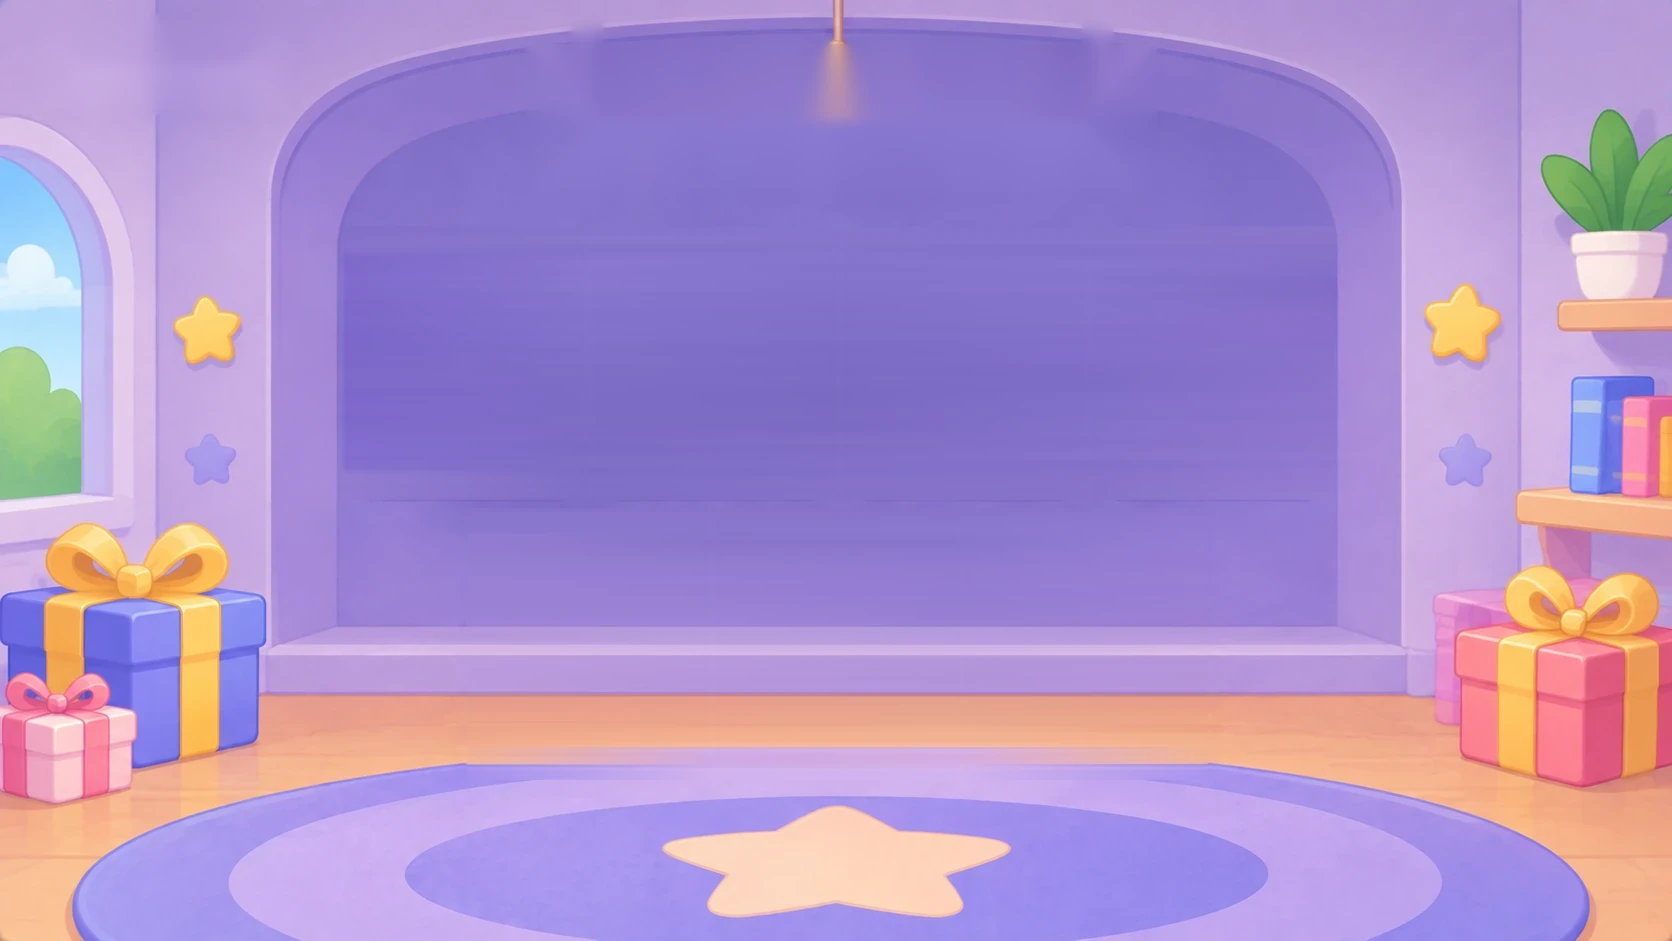
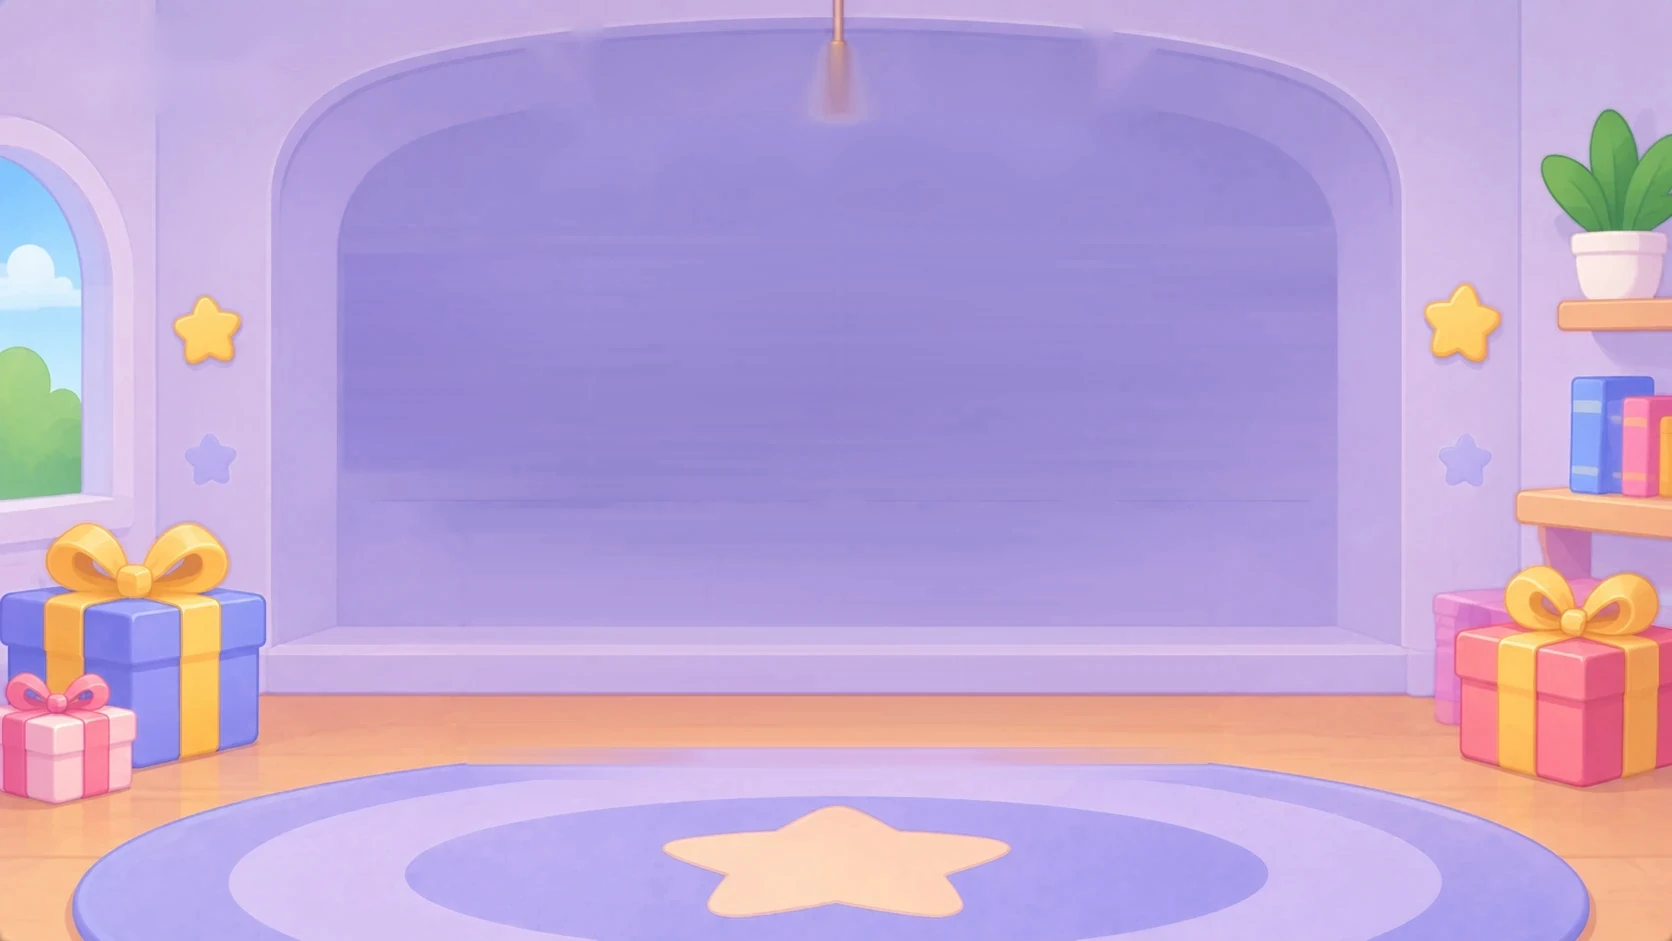
Bóc thẻ: tông tím nhạt hơn (nền phòng, thẻ, dây, nền điện thoại)
Claude-Session: https://claude.ai/code/session_01Xqfit1TE88fdJNq9wU4RBg

diff --git a/frontend/src/index.css b/frontend/src/index.css
@@ -1155,10 +1155,10 @@ html[data-arena-enter] main .page > *:nth-child(n+5) { animation-delay: 280ms; }
 .room-pill-btn:hover { transform: translateY(-0.15cqw); background: #fff; }
 
 /* ===== Bóc thẻ: sân khấu xanh, biển treo, 7 thẻ úp dấu "?" ===== */
-.gs-stage { position: relative; display: flex; flex-direction: column; align-items: center; gap: 14px; padding: 14px 12px 22px; background: linear-gradient(#B9A6F0, #8F78DE 80%, #F2B88E 80%); container-type: inline-size; }
+.gs-stage { position: relative; display: flex; flex-direction: column; align-items: center; gap: 14px; padding: 14px 12px 22px; background: linear-gradient(#CDBFF6, #A892E8 80%, #F4C3A0 80%); container-type: inline-size; }
 .gs-back { align-self: flex-start; display: inline-flex; align-items: center; gap: 6px; min-height: 44px; padding: 0 20px 0 14px; border: 2px solid #C58A4C; border-radius: 9999px; background: linear-gradient(#FCE2B8, #EDB878); box-shadow: 0 4px 10px rgba(110, 60, 15, 0.28); font-family: var(--font-display); font-weight: 800; font-size: 18px; color: #6B3A12; transition: transform 0.15s; }
 .gs-back:hover { transform: translateX(-2px); }
-.gs-rope { display: none; position: absolute; z-index: 2; top: 0; width: 0.5cqw; border-radius: 0.3cqw; background: repeating-linear-gradient(115deg, #8C6AE0 0 0.25cqw, #5B3FB8 0.25cqw 0.5cqw); box-shadow: 0 0 0 1px rgba(60, 30, 130, 0.35); }
+.gs-rope { display: none; position: absolute; z-index: 2; top: 0; width: 0.5cqw; border-radius: 0.3cqw; background: repeating-linear-gradient(115deg, #A58AE8 0 0.25cqw, #7A5CD0 0.25cqw 0.5cqw); box-shadow: 0 0 0 1px rgba(60, 30, 130, 0.35); }
 .gs-sign { position: relative; z-index: 3; display: flex; align-items: center; justify-content: center; gap: 2cqw; padding: 10px 22px 12px; border: 3px solid #E6C88C; border-radius: 22px; background: linear-gradient(#FFEFCB, #FAD79A); box-shadow: inset 0 3px 0 rgba(255, 255, 255, 0.7), 0 8px 16px rgba(60, 40, 100, 0.3); }
 .gs-title { margin: 0; white-space: nowrap; font-family: var(--font-display); font-weight: 800; line-height: 1.1; font-size: max(24px, 7cqw); color: #6A3912; }
 .gs-star { flex: none; width: max(30px, 6cqw); height: auto; filter: drop-shadow(0 2px 0 rgba(150, 100, 0, 0.3)); }
@@ -1172,8 +1172,8 @@ html[data-arena-enter] main .page > *:nth-child(n+5) { animation-delay: 280ms; }
 .gs-flipped .gs-flip { transform: rotateY(180deg); }
 .gs-face { position: absolute; inset: 0; backface-visibility: hidden; -webkit-backface-visibility: hidden; }
 .gs-face-b { transform: rotateY(180deg); border-radius: 11cqw; }
-.gs-face-f::before, .gs-face-b::before { content: ''; position: absolute; inset: 0; border: 2.8cqw solid #5A3FC2; border-radius: 11cqw; background: linear-gradient(#D3C7FC, #9C86EE); box-shadow: inset 0 1.2cqw 0 rgba(255, 255, 255, 0.7), inset 0 -1.5cqw 0 rgba(90, 60, 190, 0.3), 0 3cqw 4cqw rgba(60, 30, 130, 0.35); }
-.gs-face-b::before { border-color: #5A3FC2; background: var(--rc, #C9BBFA); }
+.gs-face-f::before, .gs-face-b::before { content: ''; position: absolute; inset: 0; border: 2.8cqw solid #7C62D8; border-radius: 11cqw; background: linear-gradient(#E4DCFE, #B8A6F4); box-shadow: inset 0 1.2cqw 0 rgba(255, 255, 255, 0.7), inset 0 -1.5cqw 0 rgba(90, 60, 190, 0.3), 0 3cqw 4cqw rgba(60, 30, 130, 0.35); }
+.gs-face-b::before { border-color: #7C62D8; background: var(--rc, #C9BBFA); }
 .gs-card-in { position: absolute; inset: 6.5cqw; display: grid; place-items: center; border-radius: 7cqw; background:
   radial-gradient(circle at 8% 7%, #B2A4F2 0 4.2%, transparent 4.8%), radial-gradient(circle at 13% 5%, #B2A4F2 0 2.6%, transparent 3.1%), radial-gradient(circle at 5% 12%, #B2A4F2 0 2.6%, transparent 3.1%),
   radial-gradient(circle at 92% 7%, #B2A4F2 0 4.2%, transparent 4.8%), radial-gradient(circle at 87% 5%, #B2A4F2 0 2.6%, transparent 3.1%), radial-gradient(circle at 95% 12%, #B2A4F2 0 2.6%, transparent 3.1%),
